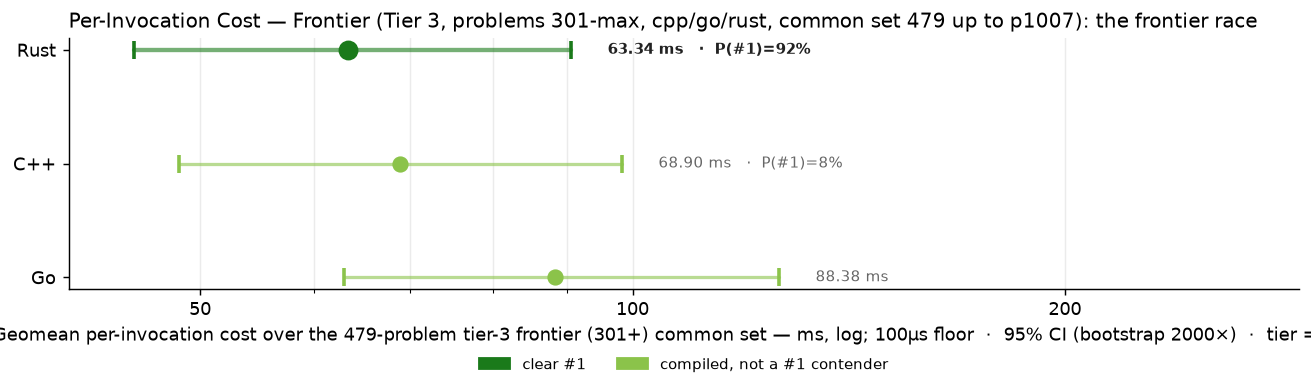
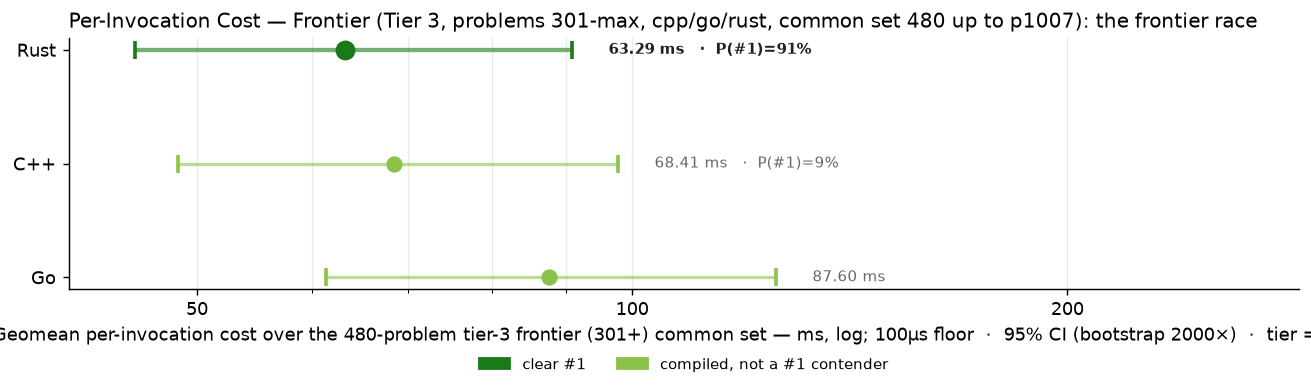
bench: p0819 trio results

diff --git a/RESULTS.md b/RESULTS.md
@@ -1,6 +1,6 @@
 # Project Euler — Cross-Language Benchmarks
 
-> **Scope: 4521 in-scope cells across 1007 problems × tiered languages — 3851 measured (85.2% coverage).**
+> **Scope: 4521 in-scope cells across 1007 problems × tiered languages — 3854 measured (85.2% coverage).**
 > The cross-language ranking below is computed over the **200-problem common set** (problems in 1-200 where every language has a passing measurement) — the apples-to-apples Foundation comparison surface.  Per-tier rankings and coverage detail appear further below.
 > Growing carefully — each new problem and language is audited for state-leak
 > safety, verified for answer correctness, and added only when it cleanly fits the
@@ -70,15 +70,15 @@ Same scatter as the Foundation chart, restricted to the tier-2 active languages 
 
 The frontier verification trio — C++, Go, Rust — on problems above 300. 3-way cross-language agreement is the verification protocol (strictly stronger than 2-way; see JOURNEY.md "Tier Reframing" episode for the p254 lesson that motivated it). Python and Zig are explicitly out of this tier — python's wall cost makes it impractical at level 5+, and zig's role caps at Tier 2.
 
-### Per-Invocation Cost (Common Set, 479 of ≤707 problems in scope)
+### Per-Invocation Cost (Common Set, 480 of ≤707 problems in scope)
 
 ![Per-Invocation Cost — Tier 3](charts/per_iter_total_tier3.png)
 
-| Rank | Language | Geomean (479-problem common set) | Total (sum) | Lines of code | vs Fastest |
+| Rank | Language | Geomean (480-problem common set) | Total (sum) | Lines of code | vs Fastest |
 |------|----------|--------------------:|------------:|--------------:|-----------:|
-| 1 | **Rust** | 63.34 ms | 1465.19 s | 74,228 | 1.00× |
-| 2 | **C++** | 68.90 ms | 1611.54 s | 58,716 | 1.09× |
-| 3 | **Go** | 88.38 ms | 1868.40 s | 74,792 | 1.40× |
+| 1 | **Rust** | 63.29 ms | 1465.23 s | 74,653 | 1.00× |
+| 2 | **C++** | 68.41 ms | 1611.54 s | 58,932 | 1.08× |
+| 3 | **Go** | 87.60 ms | 1868.40 s | 74,870 | 1.38× |
 
 ### Speed vs Code Size
 

diff --git a/per_problem/per_problem_0801-0900.md b/per_problem/per_problem_0801-0900.md
@@ -26,7 +26,7 @@ in tier-1 display order (native → managed → interpreted).
 | **p0816** | 144.46 ms | 269.31 ms | 1.21 s |
 | **p0817** | 15.86 ms | 29.25 ms | 27.02 ms |
 | **p0818** | — | — | — |
-| **p0819** | — | — | — |
+| **p0819** | 2.18 ms | 43.31 ms | 1.23 ms |
 | **p0820** | 877.34 ms | 651.49 ms | 692.89 ms |
 | **p0821** | — | — | — |
 | **p0822** | 471.61 ms | 375.97 ms | 35.84 ms |
